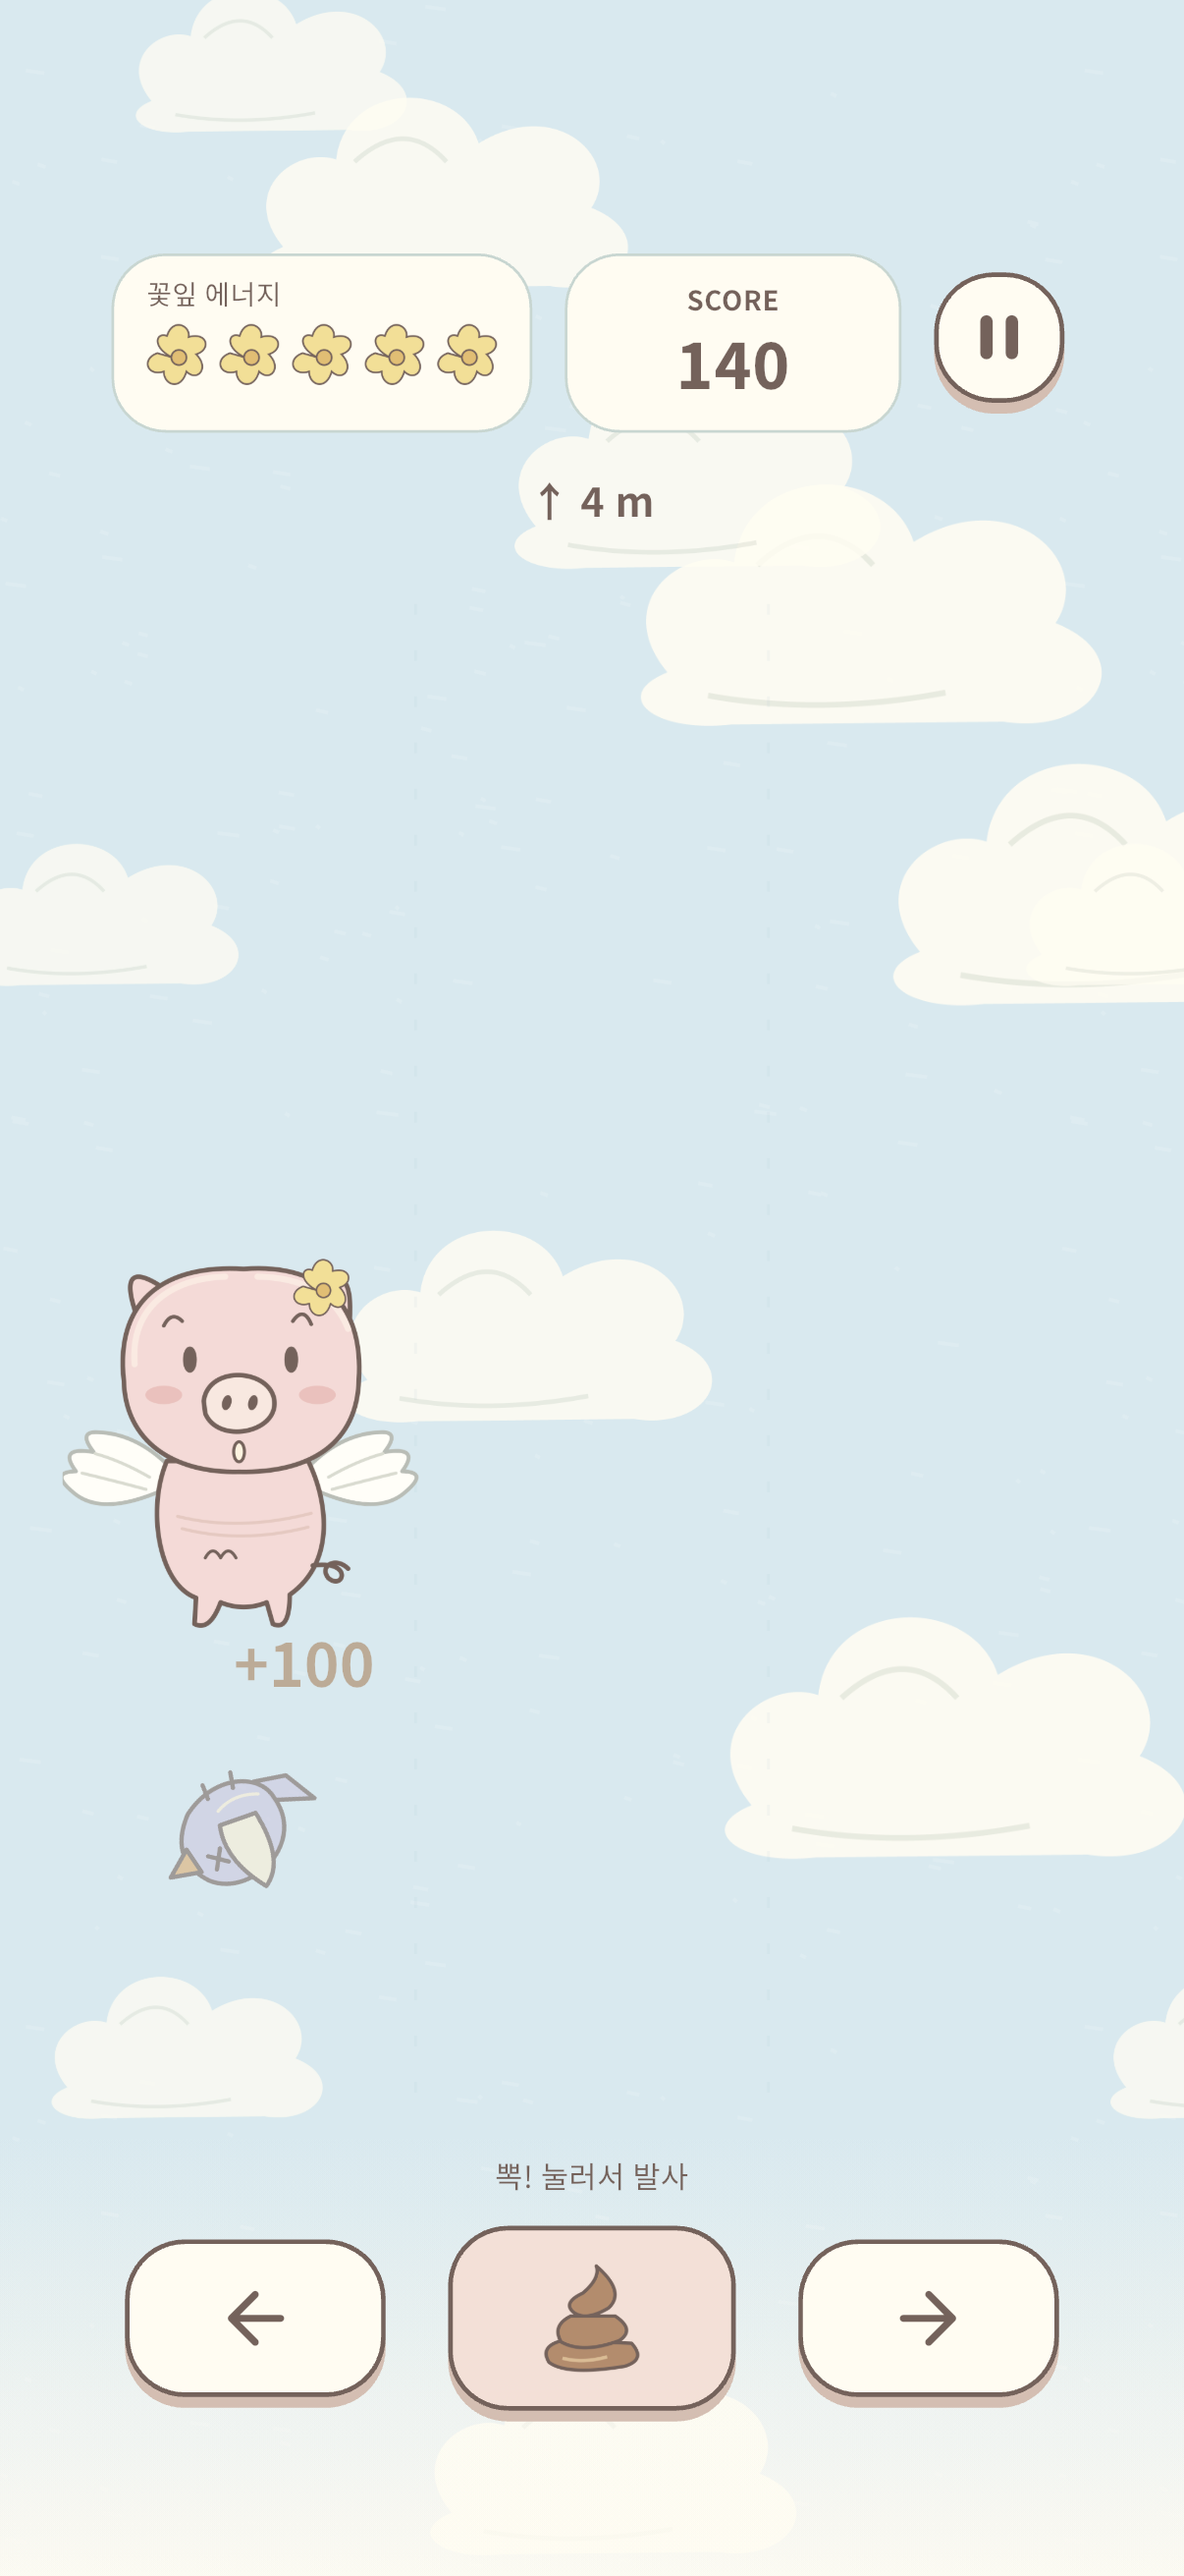
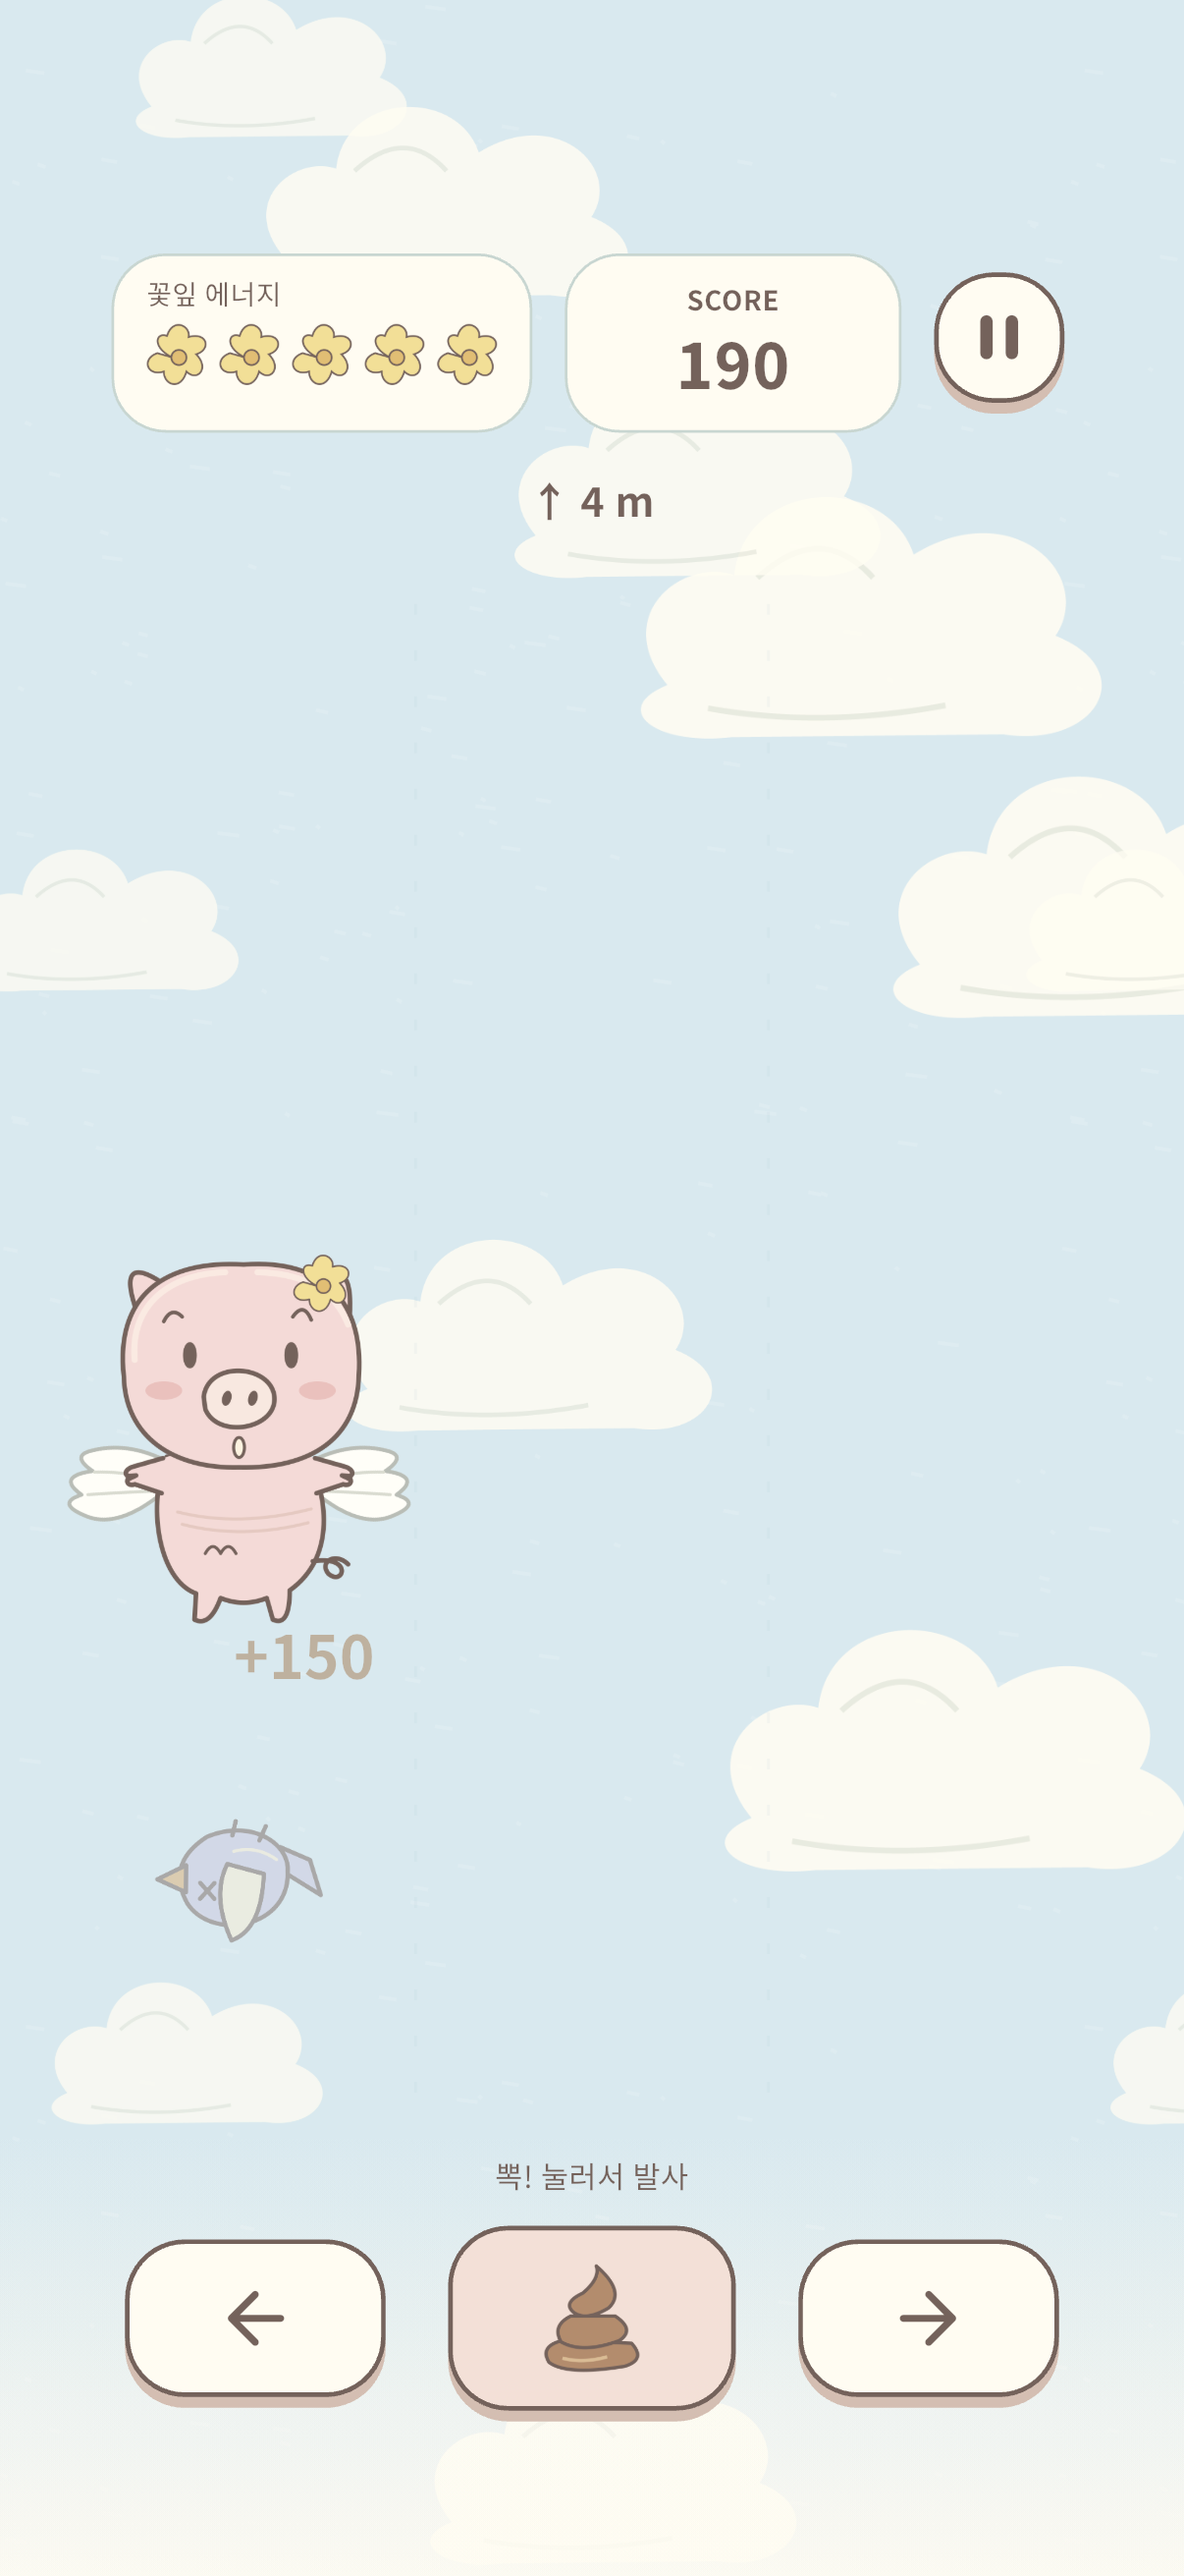
꽃돼지 소개 이미지와 얼굴 클로즈업 아이콘을 최종 확정 디자인으로 갱신
게임 마케팅 패키지에서 검증한 최종 아이콘·iPhone 실제 플레이 및 결과 캡처를 그대로 반영했습니다. 한국어·영어 공유 미리보기는 각 언어의 최종 피처 그래픽을 사용하고 큰 이미지 카드와 규격 메타데이터를 지정했습니다. 얼굴 클로즈업에 맞춰 아이콘 대체 텍스트를 수정했습니다.

언어 전환 테스트와22페이지의 링크·앵커·canonical·hreflang·사이트맵 검사를 통과했고, 이미지5개가 최종 마케팅 원본과 같은지 SHA-256으로 확인했습니다. 개인정보 페이지·지원 연락처·공통 사이트 로직은 변경하지 않았습니다.

diff --git a/flowerpig/index.html b/flowerpig/index.html
@@ -7,12 +7,12 @@
 <meta property="og:title" content="난다난다꽃돼지 · 말랑소프트"><meta property="og:description" content="하얀 날개와 노란 꽃을 단 꽃돼지의 세 갈래 하늘 여행. 새를 피하고 기록에 도전하는 모바일 아케이드 게임.">
 <meta property="og:type" content="website"><meta property="og:url" content="https://malangsoft.pages.dev/flowerpig/">
 <meta property="og:locale" content="ko_KR"><meta property="og:site_name" content="Malangsoft">
-<meta property="og:image" content="https://malangsoft.pages.dev/assets/flowerpig-icon.png"><meta name="twitter:card" content="summary">
+<meta property="og:image" content="https://malangsoft.pages.dev/assets/flowerpig-feature-ko.png"><meta property="og:image:width" content="1024"><meta property="og:image:height" content="500"><meta name="twitter:card" content="summary_large_image">
 <link rel="icon" href="/assets/flowerpig-icon.png"><link rel="stylesheet" href="/assets/site.css"><link rel="stylesheet" href="/assets/flowerpig.css">
 <link rel="alternate" hreflang="ko" href="https://malangsoft.pages.dev/flowerpig/"><link rel="alternate" hreflang="en" href="https://malangsoft.pages.dev/en/flowerpig/"><link rel="alternate" hreflang="x-default" href="https://malangsoft.pages.dev/en/flowerpig/">
 <script src="/assets/language.js"></script></head><body class="flowerpig"><div class="wrap"><header class="top"><a class="brand" href="/" aria-label="말랑소프트 홈"><span class="brand-mark" aria-hidden="true"><i></i><i></i><i></i><i></i></span>malangsoft</a><nav aria-label="주 메뉴"><a href="/#apps">다른 앱</a><a href="/flowerpig/#support">지원</a><a class="language-switch" href="/en/flowerpig/?lang=en" lang="en" aria-label="View in English">English</a></nav></header><main>
 <section class="product-hero"><div>
-<img class="product-icon" src="/assets/flowerpig-icon.png" alt="하얀 날개와 노란 꽃을 단 분홍 돼지, 난다난다꽃돼지 앱 아이콘" width="74" height="74">
+<img class="product-icon" src="/assets/flowerpig-icon.png" alt="노란 꽃을 단 연분홍 꽃돼지의 얼굴 클로즈업 앱 아이콘" width="74" height="74">
 <p class="eyebrow">난다난다꽃돼지 · FLOWER PIG</p><h1>작은 꽃 하나,<br>하늘 끝까지.</h1>
 <p class="lead">하얀 날개를 팔랑이며 세 갈래 하늘길을 폴짝.<br>새를 피하고, 아래로 똥을 뽁!<br>포근한 크래용 하늘에서 나의 기록에 도전해요.</p>
 <div class="product-links"><span class="release">iOS · Android 출시 준비 중</span><a class="text-link" href="#how">어떻게 플레이하나요? ↓</a></div>

diff --git a/en/flowerpig/index.html b/en/flowerpig/index.html
@@ -7,12 +7,12 @@
 <meta property="og:title" content="Flower Pig: Sky Hop · Malangsoft"><meta property="og:description" content="A soft crayon sky, three lanes and one little winged pig. Dodge birds, drop surprises and chase your best record.">
 <meta property="og:type" content="website"><meta property="og:url" content="https://malangsoft.pages.dev/en/flowerpig/">
 <meta property="og:locale" content="en_US"><meta property="og:site_name" content="Malangsoft">
-<meta property="og:image" content="https://malangsoft.pages.dev/assets/flowerpig-icon.png"><meta name="twitter:card" content="summary">
+<meta property="og:image" content="https://malangsoft.pages.dev/assets/flowerpig-feature-en.png"><meta property="og:image:width" content="1024"><meta property="og:image:height" content="500"><meta name="twitter:card" content="summary_large_image">
 <link rel="icon" href="/assets/flowerpig-icon.png"><link rel="stylesheet" href="/assets/site.css"><link rel="stylesheet" href="/assets/flowerpig.css">
 <link rel="alternate" hreflang="ko" href="https://malangsoft.pages.dev/flowerpig/"><link rel="alternate" hreflang="en" href="https://malangsoft.pages.dev/en/flowerpig/"><link rel="alternate" hreflang="x-default" href="https://malangsoft.pages.dev/en/flowerpig/">
 <script src="/assets/language.js"></script></head><body class="flowerpig"><div class="wrap"><header class="top"><a class="brand" href="/en/" aria-label="Malangsoft home"><span class="brand-mark" aria-hidden="true"><i></i><i></i><i></i><i></i></span>malangsoft</a><nav aria-label="Main navigation"><a href="/en/#apps">All apps</a><a href="/en/flowerpig/#support">Support</a><a class="language-switch" href="/flowerpig/?lang=ko" lang="ko" aria-label="한국어로 보기">한국어</a></nav></header><main>
 <section class="product-hero"><div>
-<img class="product-icon" src="/assets/flowerpig-icon.png" alt="Flower Pig app icon: a pale pink pig with white wings and a yellow flower" width="74" height="74">
+<img class="product-icon" src="/assets/flowerpig-icon.png" alt="Flower Pig app icon: a close-up pale pink face with a yellow flower" width="74" height="74">
 <p class="eyebrow">FLOWER PIG: SKY HOP · 난다난다꽃돼지</p><h1>A little flower.<br>A sky to explore.</h1>
 <p class="lead">Flutter through three sky lanes on white wings.<br>Dodge birds and drop a playful surprise.<br>Chase your own record in a soft crayon world.</p>
 <div class="product-links"><span class="release">Preparing for iOS · Android</span><a class="text-link" href="#how">How to play ↓</a></div>
